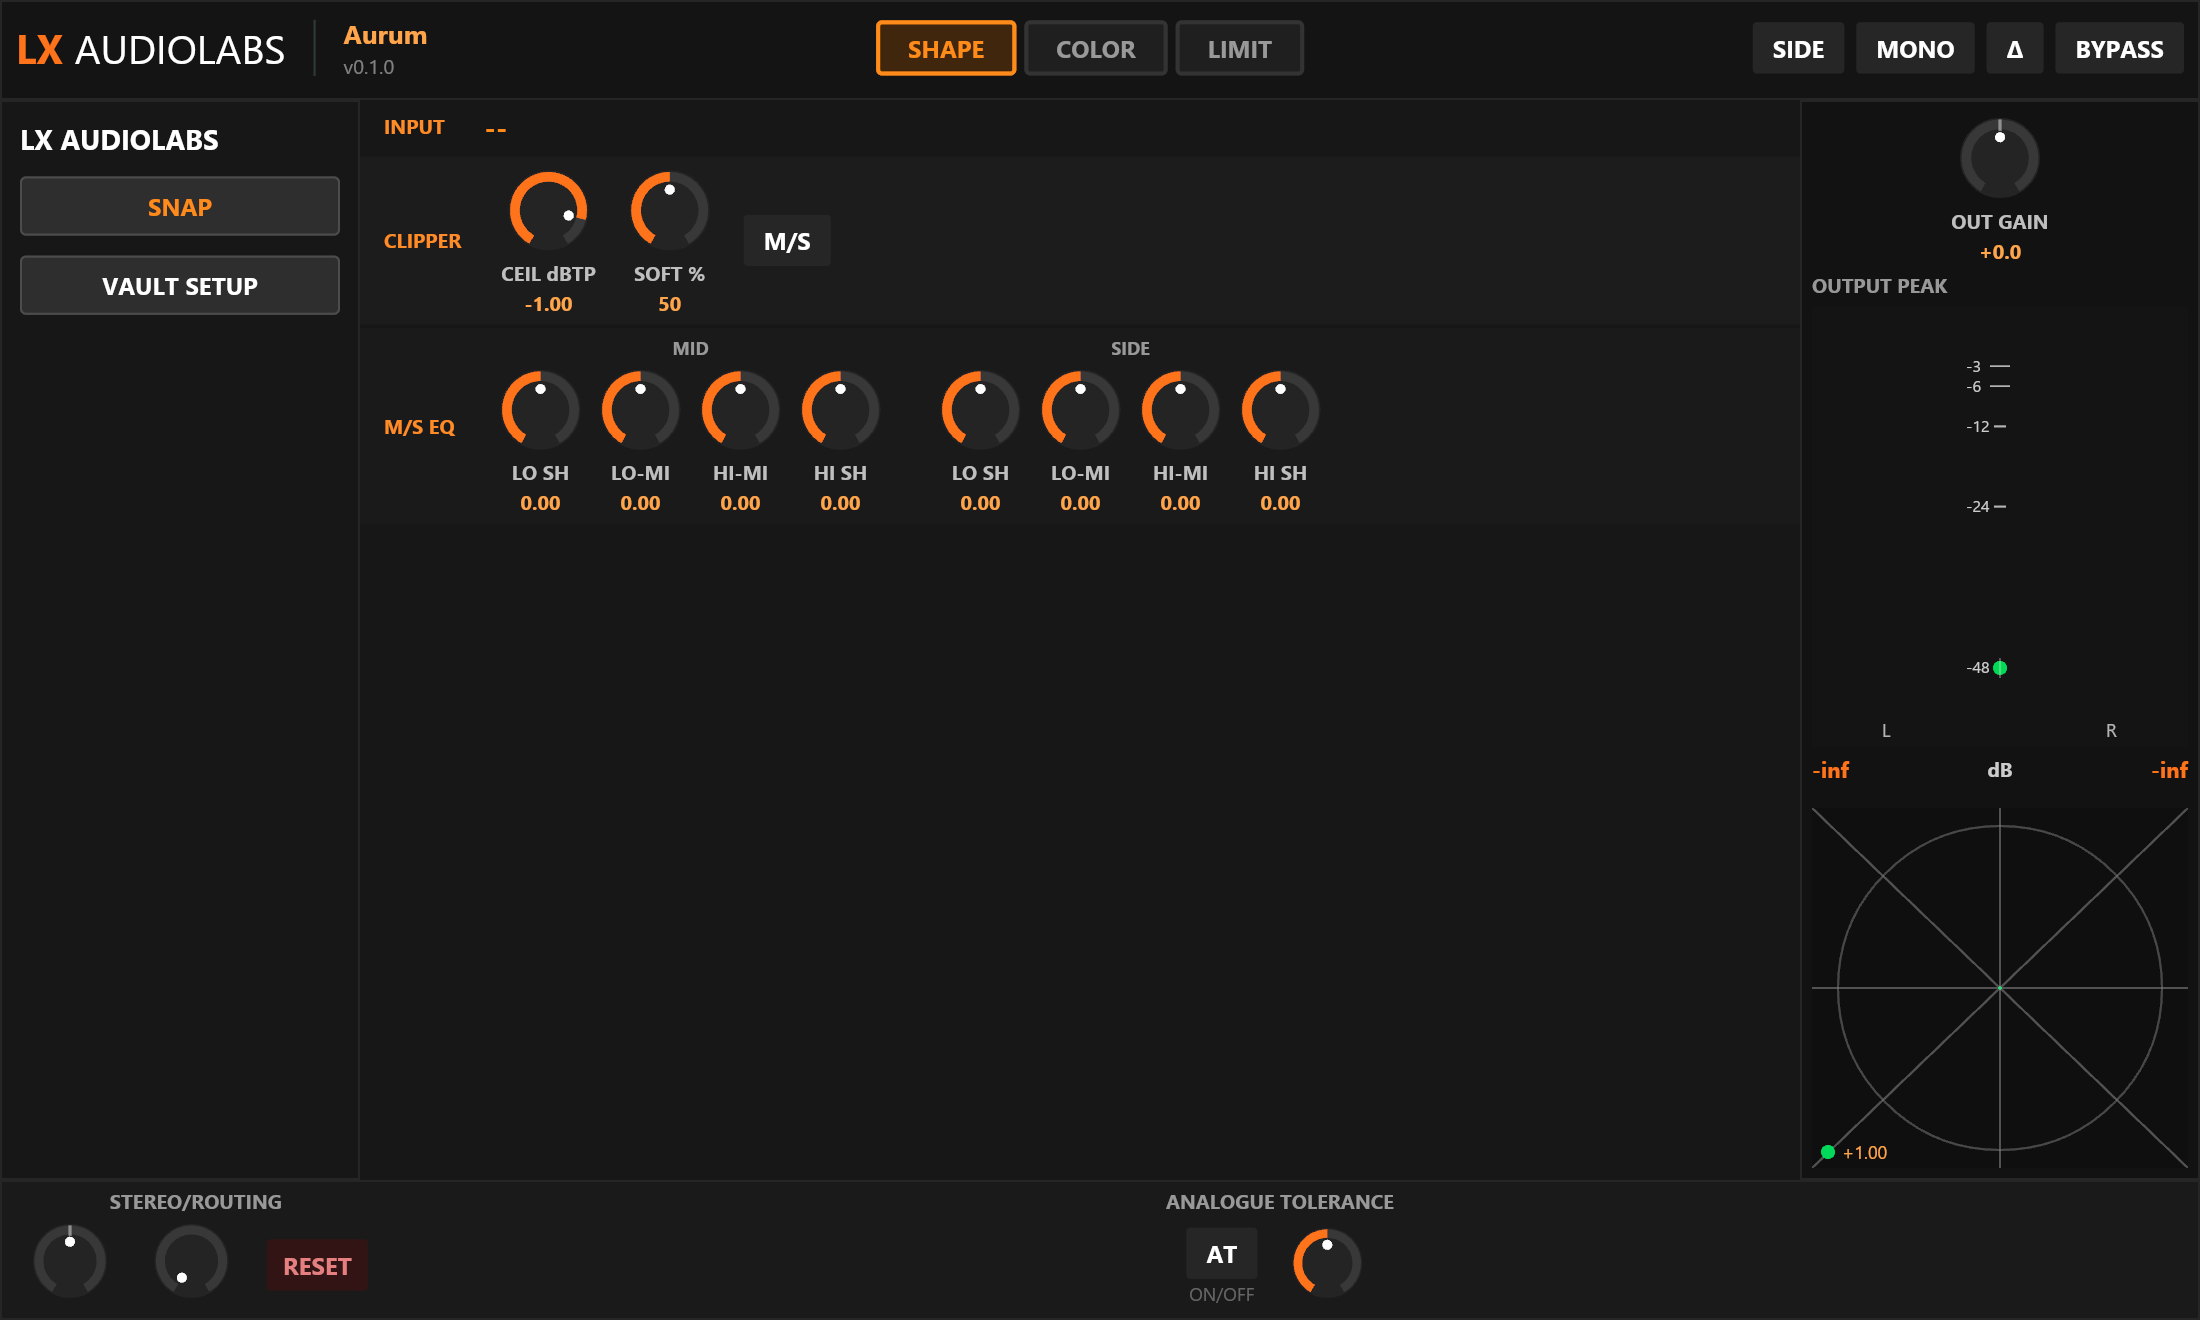
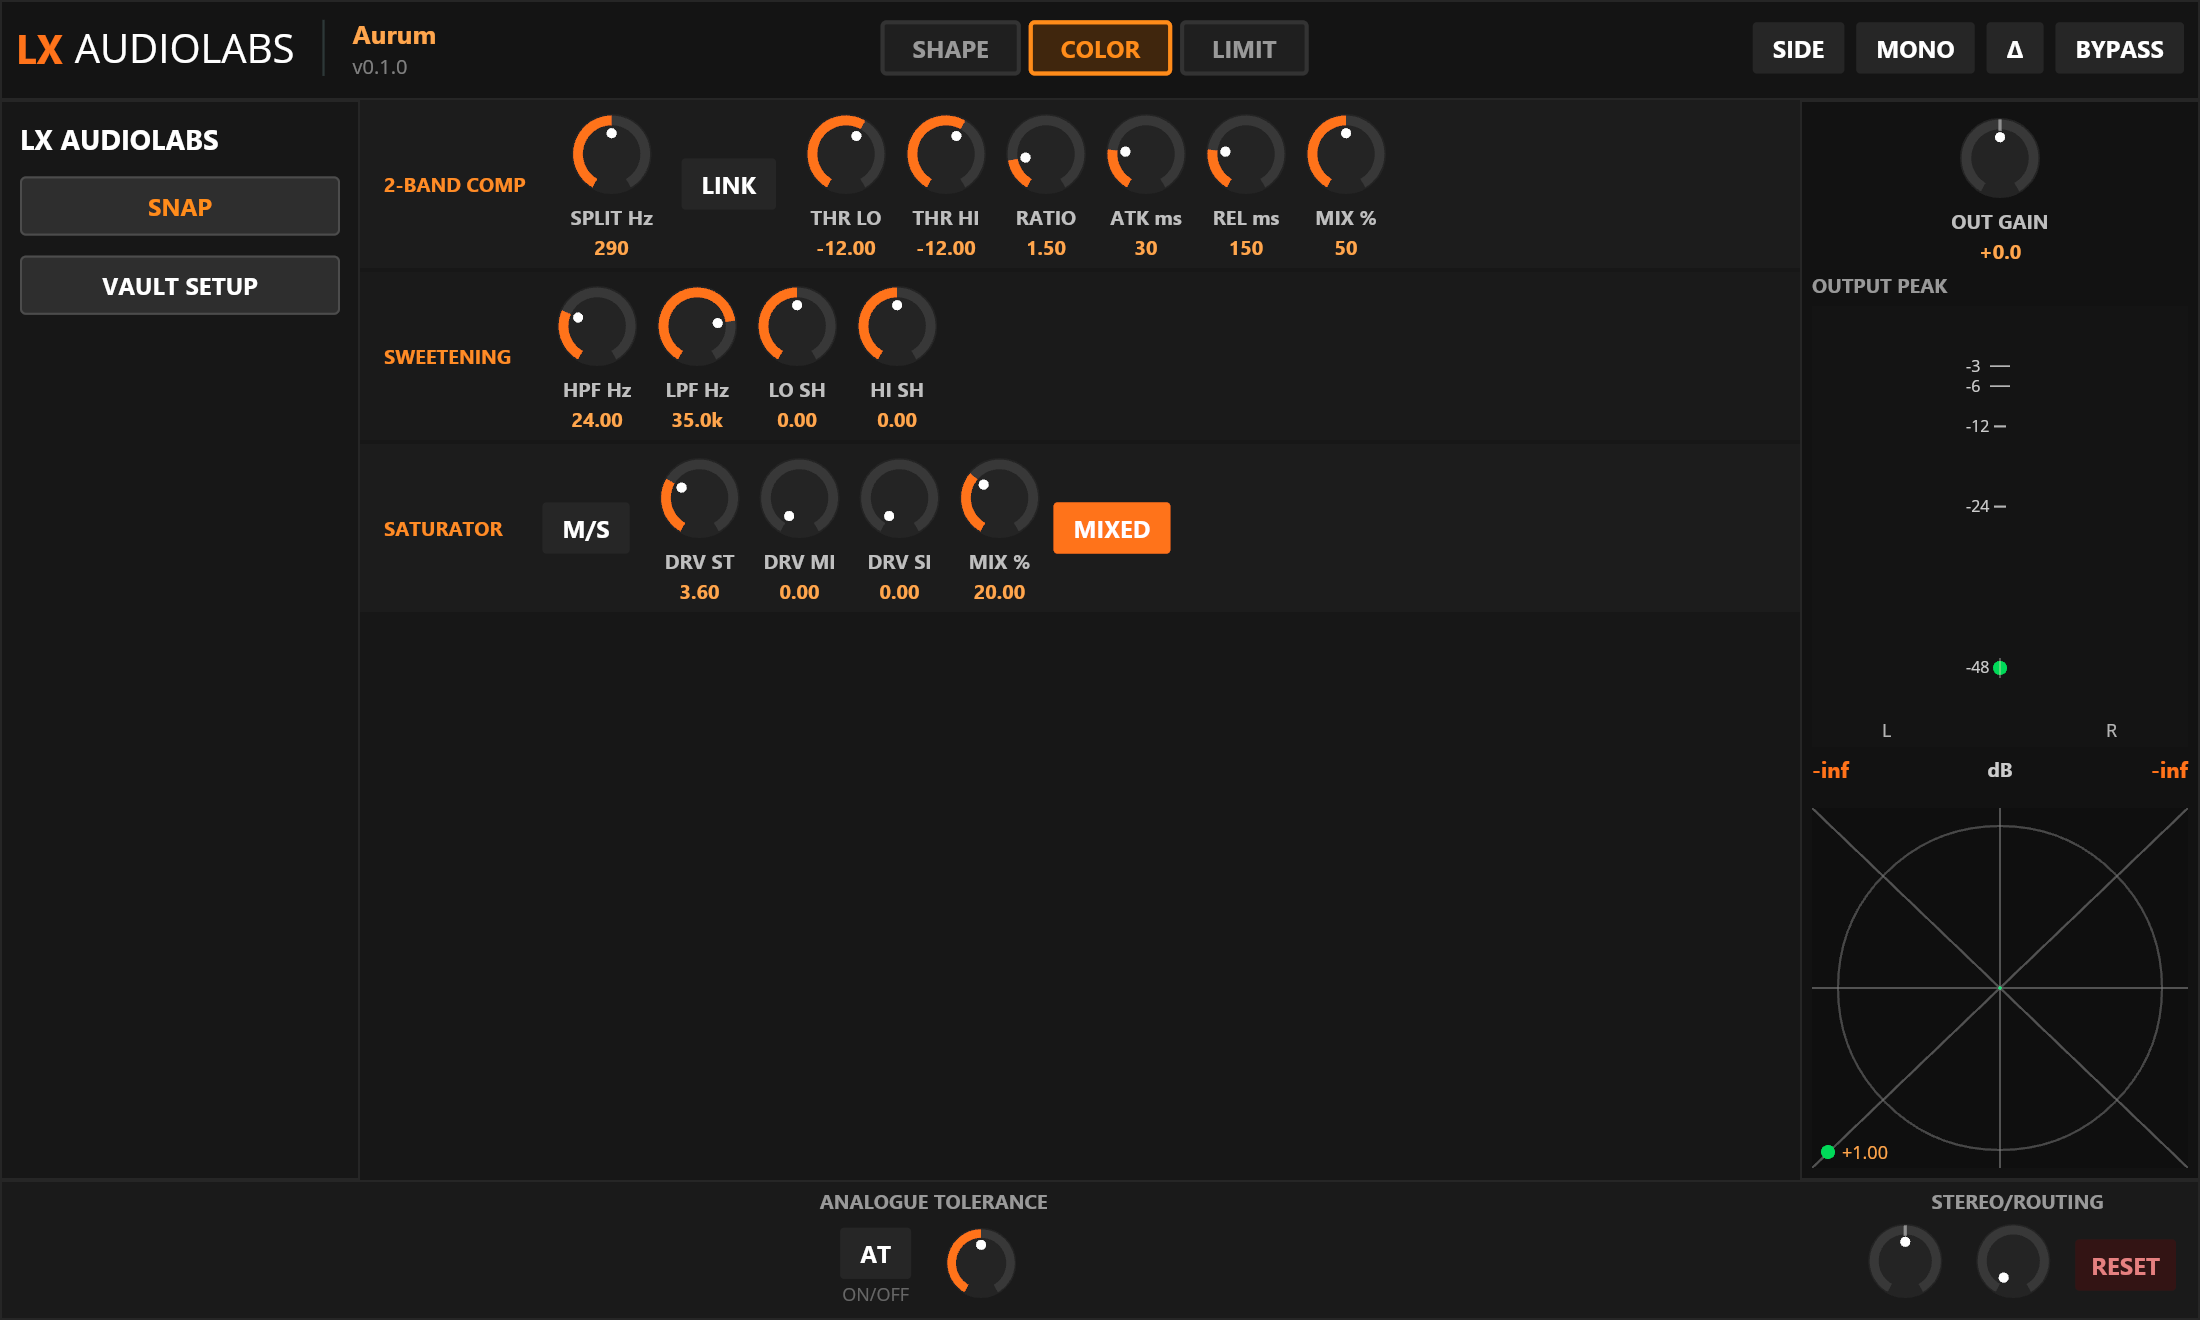
fix: RT-safety audit findings in Lucent + Aurum screenshot test coverage
Lucent process(): convert 10 blocking Mutex::lock() calls (scope_samples,
resonance_hub, spectrum_bins, spectrum_avg) to try_lock(), matching the
already-correct masking_map pattern in the same function. Blocking locks
in the audio callback risk priority inversion against the GUI thread
reading the same buffers.

Aurum screenshot tests: screenshot_color_tab/screenshot_limit_tab set
params but never dispatched a tab-switch message, so all 3 "per-tab"
tests captured the identical SHAPE tab since the original commit
(verified via matching MD5 across all 3 reference PNGs). Added a
#[cfg(test)]-only AtomicUsize field on AurumParams (zero release
impact) so tests can pick the initial tab via the existing .setup()
builder hook. Accepted new reference screenshots - also picks up an
unrelated truce-iced 1.0.1->1.0.4 footer layout change (Length::Fill
row distribution) that now matches the documented Meridian-pattern
spec instead of the stale pre-upgrade capture.

diff --git a/lucent/src/lib.rs b/lucent/src/lib.rs
@@ -333,7 +333,7 @@ impl PluginLogic for Lucent {
             sum_r2 += in_r * in_r;
 
             let scope_pos = self.params.shared.scope_write_pos.load(Ordering::Relaxed);
-            if let Ok(mut scope) = self.params.shared.scope_samples.lock() {
+            if let Ok(mut scope) = self.params.shared.scope_samples.try_lock() {
                 if scope_pos < scope.len() {
                     scope[scope_pos] = [in_l, in_r];
                 }
@@ -362,14 +362,14 @@ impl PluginLogic for Lucent {
                             let peaks = self.peak_tracker.find_peaks(&frame);
                             self.peak_tracker.update(&peaks);
                             let last_resonances = self.peak_tracker.resonance_peaks();
-                            if let Ok(mut peaks) = resonance_hub().lock() { *peaks = last_resonances; }
+                            if let Ok(mut peaks) = resonance_hub().try_lock() { *peaks = last_resonances; }
                             if let Ok(mut mm) = self.params.shared.masking_map.try_lock() {
                                 mm.iter_mut().for_each(|m| *m = -90.0);
                             }
-                            if let Ok(mut bins) = self.params.shared.spectrum_bins.lock() {
+                            if let Ok(mut bins) = self.params.shared.spectrum_bins.try_lock() {
                                 bins.copy_from_slice(&frame);
                             }
-                            if let Ok(mut avg) = self.params.shared.spectrum_avg.lock() {
+                            if let Ok(mut avg) = self.params.shared.spectrum_avg.try_lock() {
                                 for k in 0..n_bins {
                                     avg[k] = avg[k] * (49.0 / 50.0) + frame[k] * (1.0 / 50.0);
                                 }
@@ -379,7 +379,7 @@ impl PluginLogic for Lucent {
                             let peaks = self.peak_tracker.find_peaks(&frame);
                             self.peak_tracker.update(&peaks);
                             let last_resonances = self.peak_tracker.resonance_peaks();
-                            if let Ok(mut peaks) = resonance_hub().lock() { *peaks = last_resonances; }
+                            if let Ok(mut peaks) = resonance_hub().try_lock() { *peaks = last_resonances; }
                             let my_name = self.claimed_lucent_slot
                                 .map(|s| shared_analysis::shm::display_name(&self.cached_name, s))
                                 .unwrap_or_else(|| self.cached_name.clone());
@@ -393,23 +393,23 @@ impl PluginLogic for Lucent {
                             if let Ok(mut mm) = self.params.shared.masking_map.try_lock() {
                                 mm.copy_from_slice(&self.masking_analyzer.masking_map);
                             }
-                            if let Ok(mut bins) = self.params.shared.spectrum_bins.lock() {
+                            if let Ok(mut bins) = self.params.shared.spectrum_bins.try_lock() {
                                 bins.copy_from_slice(&frame);
                             }
-                            if let Ok(mut avg) = self.params.shared.spectrum_avg.lock() {
+                            if let Ok(mut avg) = self.params.shared.spectrum_avg.try_lock() {
                                 for k in 0..n_bins {
                                     avg[k] = avg[k] * (49.0 / 50.0) + frame[k] * (1.0 / 50.0);
                                 }
                             }
                         }
                         _ => {
-                            if let Ok(mut bins) = self.params.shared.spectrum_bins.lock() {
+                            if let Ok(mut bins) = self.params.shared.spectrum_bins.try_lock() {
                                 bins.iter_mut().for_each(|b| *b = -90.0);
                             }
-                            if let Ok(mut avg) = self.params.shared.spectrum_avg.lock() {
+                            if let Ok(mut avg) = self.params.shared.spectrum_avg.try_lock() {
                                 avg.iter_mut().for_each(|b| *b = -90.0);
                             }
-                            if let Ok(mut peaks) = resonance_hub().lock() { peaks.clear(); }
+                            if let Ok(mut peaks) = resonance_hub().try_lock() { peaks.clear(); }
                             let my_name = self.claimed_lucent_slot
                                 .map(|s| shared_analysis::shm::display_name(&self.cached_name, s))
                                 .unwrap_or_else(|| self.cached_name.clone());

diff --git a/aurum/src/lib.rs b/aurum/src/lib.rs
@@ -179,6 +179,17 @@ pub struct AurumParams {
 
     #[skip]
     pub shared: Arc<SharedState>,
+
+    /// Test-only hook: lets screenshot tests pick which tab
+    /// `AurumEditor::new()` starts on. `selected_tab` is pure UI state
+    /// with no CLAP-facing equivalent, and `truce_test::screenshot!`
+    /// only exposes `.set_param()` / `.setup(|plugin| ..)` (mutates the
+    /// plugin, not the editor) before the single-shot render - this is
+    /// the smallest way to reach it. Compiled out entirely in release
+    /// builds (`#[cfg(test)]`), zero runtime/state-serialization impact.
+    #[cfg(test)]
+    #[skip]
+    pub test_initial_tab: std::sync::atomic::AtomicUsize,
 }
 
 // ─── Plugin ───────────────────────────────────────────────────────────────────
@@ -493,6 +504,8 @@ truce::plugin! { logic: Aurum, params: AurumParams }
 mod tests {
     use crate::Plugin;
     use std::time::Duration;
+    use std::sync::atomic::Ordering;
+    use truce_core::PluginExport;
 
     #[test]
     fn renders_pass_through() {
@@ -517,6 +530,7 @@ mod tests {
         truce_test::screenshot!(Plugin, "screenshots/aurum-color.png")
             .set_param(crate::AurumParamsParamId::CompSplit, 0.5)
             .set_param(crate::AurumParamsParamId::SatDriveStereo, 0.3)
+            .setup(|p| p.params().test_initial_tab.store(1, Ordering::Relaxed))
             .tolerance(200)
             .run();
     }
@@ -526,6 +540,7 @@ mod tests {
         truce_test::screenshot!(Plugin, "screenshots/aurum-limit.png")
             .set_param(crate::AurumParamsParamId::MbThreshMidLo, 0.4)
             .set_param(crate::AurumParamsParamId::LimCeiling, 0.7)
+            .setup(|p| p.params().test_initial_tab.store(2, Ordering::Relaxed))
             .tolerance(200)
             .run();
     }

diff --git a/aurum/src/editor.rs b/aurum/src/editor.rs
@@ -90,7 +90,11 @@ impl IcedPlugin<AurumParams> for AurumEditor {
     fn new(params: Arc<AurumParams>) -> Self {
         let shared = params.shared.clone();
         let cfg = shared_analysis::load_config("Aurum");
-        Self { params, shared_state: shared, selected_tab: 0,
+        #[cfg(test)]
+        let selected_tab = params.test_initial_tab.load(Ordering::Relaxed);
+        #[cfg(not(test))]
+        let selected_tab = 0;
+        Self { params, shared_state: shared, selected_tab,
             output_peak: -90.0, peak_hold: -90.0, peak_l: -90.0, peak_r: -90.0,
             peak_hold_l: -90.0, peak_hold_r: -90.0, phase_correlation: 1.0, balance: 0.0,
             vault_path: cfg.vault_path.clone(), show_setup: false,
